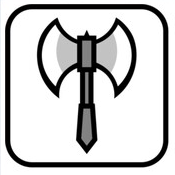
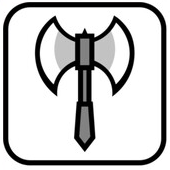
added backside of card

Changed region(s): [[0.0, 0.0, 1.0, 1.0], [0.2059, 0.0882, 0.4706, 0.5882], [0.4118, 0.3824, 0.4412, 0.4118]]

diff --git a/src/components/card.tsx b/src/components/card.tsx
@@ -2,14 +2,15 @@ import React, { FC } from 'react';
 import { connect } from 'react-redux';
 import { flipCard, compareCard } from '../redux/actions';
 import styled from 'styled-components';
+import backside from '../assets/backside.png';
 
 const Container = styled.div``;
 
 const Button = styled.button`
 	margin: 5px;
+	padding: 0px;
 	@media (min-width: 470px) {
 		width: calc(100% - 10px);
-		padding: 30px 15px;
 	}
 `;
 
@@ -39,15 +40,15 @@ const Card: FC<CardProps> = ({ card, flipCard, compareCard, flipped }) => {
 		<Container>
 			{/* If a card has been matched already and locked is true, just show the card */}
 			{locked ? (
-				<p>
-					<img src={image} alt="Icon" />
-				</p>
+				<img src={image} alt="Icon" />
 			) : (
 				// If the card has not been matched, render a button that can be clicked to flip the card
-				<Button onClick={() => handleClick()}>
-					{/* Conditionally render the image based upon state */}
-					{hidden ? 'Back Side' : <img src={image} alt="Icon" />}
-				</Button>
+				<div>
+					<Button onClick={() => handleClick()}>
+						{/* Conditionally render the image based upon state */}
+						{hidden ? <img src={backside} alt="Backside" /> : <img src={image} alt="Icon" />}
+					</Button>
+				</div>
 			)}
 		</Container>
 	);

diff --git a/src/App.tsx b/src/App.tsx
@@ -8,7 +8,7 @@ function App() {
 	return (
 		<div className="App">
 			<Layout>
-				<Modal />
+				{/* <Modal /> */}
 				<Game />
 			</Layout>
 		</div>

diff --git a/src/App.css b/src/App.css
@@ -204,3 +204,8 @@ p,
 button {
 	font-size: 2rem;
 }
+
+img {
+	max-width: 100%;
+	display: block;
+}
